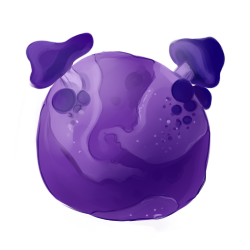
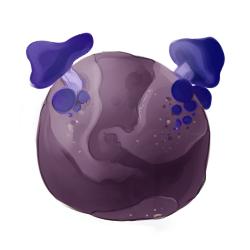
Added bioms images

diff --git a/map/level/settings.py b/map/level/settings.py
@@ -29,26 +29,26 @@ class LevelSettings:
 
 # список настроек для каждого уровня.
 level_settings = [
-    LevelSettings('level.floor3', 'level.wall1',
+    LevelSettings('level.simple_planet.floor2', 'level.simple_planet.wall',
                   ('level_objects.boxes.box_wood', 'level_objects.boxes.box_wood_open'),
                 [(30, 'Sword'), (60, 'Pistol'), (10, 'TwoBarrelShotgun')],
                   [(0, 'Sword'), (50, 'TwoBarrelShotgun'), (50, 'OldRifle')]),
-    LevelSettings('level.floor3', 'level.wall1',
+    LevelSettings('level.ice_planet.floor2', 'level.ice_planet.wall',
                 ('level_objects.boxes.box_wood', 'level_objects.boxes.box_wood_open'),
                 [(30, 'Pistol'), (10, 'TwoBarrelShotgun'),
                  (30, 'OldRifle'), (30, 'SemiAutomaticRifle')],
                   [(40, 'SemiAutomaticRifle'), (40, 'ThreeBarrelShotgun'), (20, 'SniperRifle')]),
-    LevelSettings('level.floor3', 'level.wall1',
+    LevelSettings('level.lava_planet.floor2', 'level.lava_planet.wall',
                 ('level_objects.boxes.box', 'level_objects.boxes.box_open'),
                 [(30, 'SemiAutomaticRifle'), (30, 'ThreeBarrelShotgun'),
                  (25, 'SniperRifle'), (15, 'BurstFiringPistol')],
                   [(16, 'SniperRifle'), (28, 'BurstFiringPistol'),
                    (28, 'Shotgun'), (28, 'AutomaticRifle')]),
-    LevelSettings('level.floor3', 'level.wall1',
+    LevelSettings('level.violet_planet.floor1', 'level.violet_planet.wall',
                 ('level_objects.boxes.box', 'level_objects.boxes.box_open'),
                 [(10, 'Sword'), (30, 'SniperRifle'), (30, 'Shotgun'), (30, 'AutomaticRifle')],
                   [(0, 'Sword'), (65, 'AutomaticRifle'), (35, 'TacticalShotgun')]),
-    LevelSettings('level.floor2', 'level.wall1',
+    LevelSettings('level.mushroom_planet.floor1', 'level.mushroom_planet.wall',
                 ('level_objects.boxes.box', 'level_objects.boxes.box_open'),
                 [(10, 'Sword'), (20, 'AutomaticRifle'), (30, 'Shotgun'), (40, 'TacticalShotgun')],
                   [(40, 'AutomaticRifle'), (60, 'TacticalShotgun')])

diff --git a/map/collision_grid/collision_grid.py b/map/collision_grid/collision_grid.py
@@ -70,7 +70,7 @@ class CollisionGrid(Grid):
         return self.arr[i][j].image_name != self._get_filename(0)
 
     def _get_filename(self, filename_index: int) -> str:
-        FILENAMES = ['level.wall1', 'level.floor3']
+        FILENAMES = ['level.spaceship.wall', 'level.spaceship.floor']
         return FILENAMES[filename_index]
 
     def get_collision_rect(self, i: int, j: int) -> Rectangle:
